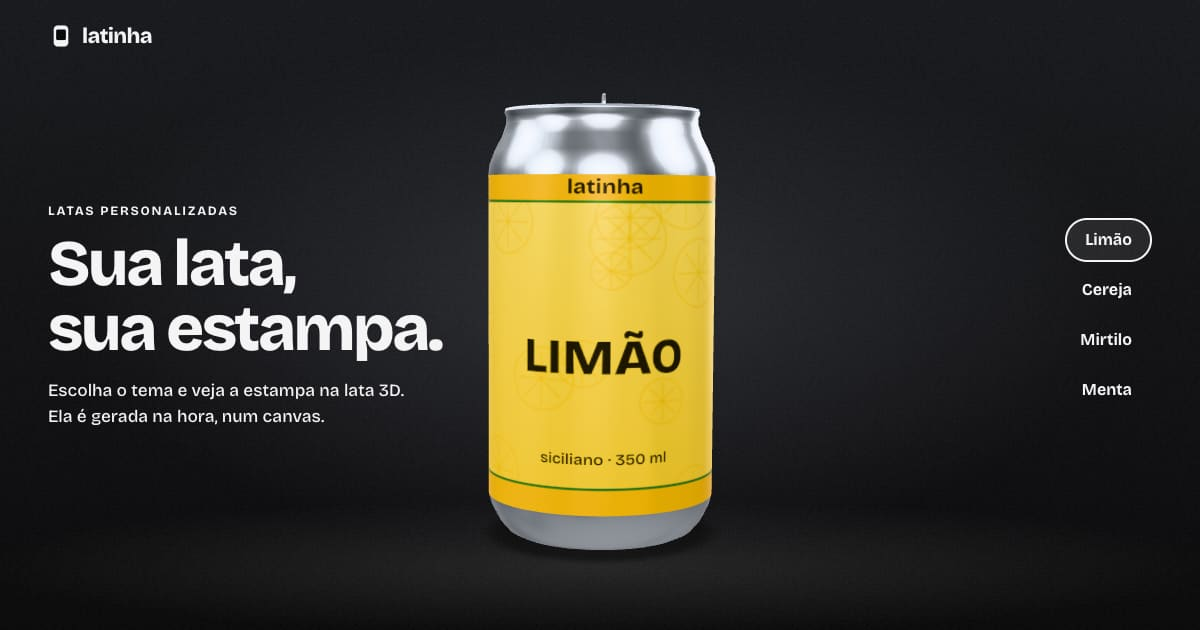
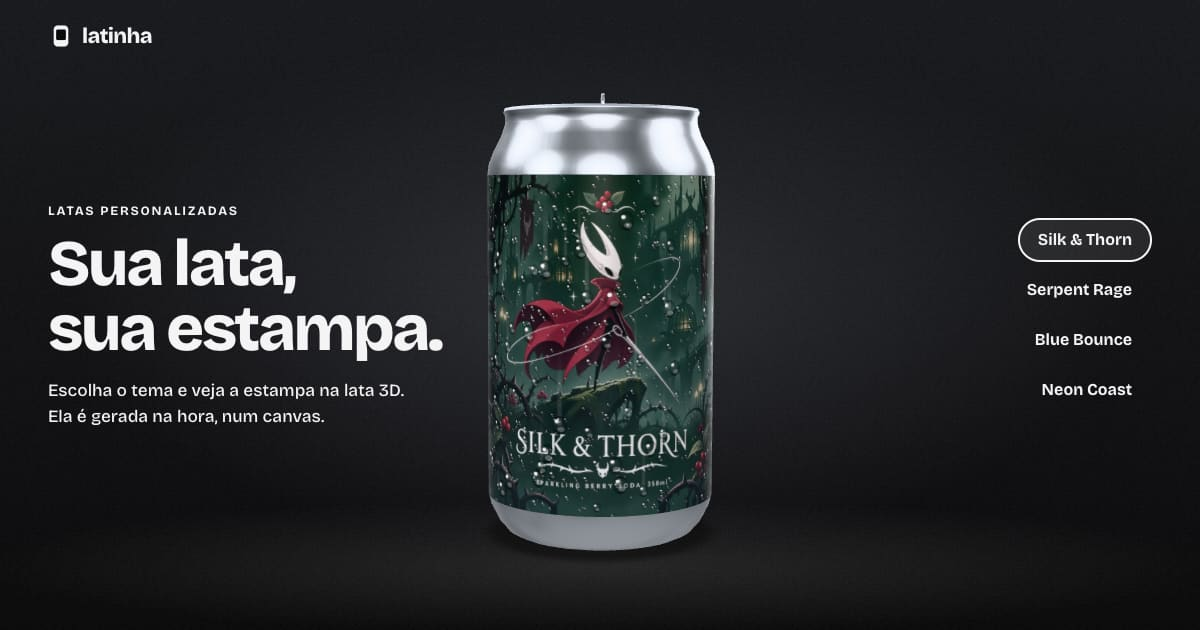
Temas novos com rotulos do Magnific (Silk & Thorn, Serpent Rage, Blue Bounce, Neon Coast) e gotas de condensacao

diff --git a/src/modules/textures.js b/src/modules/textures.js
@@ -106,91 +106,72 @@ function barcode(ctx, x, y, w, h, ink, r) {
   ctx.fillStyle = ink;
 }
 
-/**
- * Desenha a estampa de um tema. `theme.custom` (estúdio) traz { text, image, layout }.
- * @returns {HTMLCanvasElement}
- */
+const imgs = new Map();
+export function loadLabelImage(src) {
+  if (!imgs.has(src)) imgs.set(src, new Promise((res, rej) => { const i = new Image(); i.decoding = 'async'; i.onload = () => res(i); i.onerror = rej; i.src = src; }));
+  return imgs.get(src);
+}
+
+// Condensação: gotas de vários tamanhos com sombra, brilho de ponta e rastro nas maiores, mais uma névoa fria leve.
+// O desenho é determinístico (semente fixa), então o mesmo tema sempre tem as mesmas gotas.
+const dropLayers = new Map();
+function condensation(target, W, H) {
+  const key = `${W}x${H}`;
+  if (!dropLayers.has(key)) {
+    const layer = document.createElement('canvas'); layer.width = W; layer.height = H;
+    paintCondensation(layer.getContext('2d'), W, H);
+    dropLayers.set(key, layer); // as gotas são iguais em todos os temas: desenha uma vez por tamanho
+  }
+  target.drawImage(dropLayers.get(key), 0, 0);
+}
+
+function paintCondensation(ctx, W, H) {
+  const r = rng(2026);
+  ctx.save();
+  const haze = ctx.createLinearGradient(0, 0, 0, H);
+  haze.addColorStop(0, 'rgba(200,225,255,0.07)'); haze.addColorStop(1, 'rgba(200,225,255,0.18)');
+  ctx.fillStyle = haze; ctx.fillRect(0, 0, W, H);
+  const drop = (x, y, rad, streak) => {
+    const rx = rad, ry = rad * 1.28;
+    if (streak) {
+      const g = ctx.createLinearGradient(0, y - streak, 0, y);
+      g.addColorStop(0, 'rgba(255,255,255,0)'); g.addColorStop(1, 'rgba(255,255,255,0.16)');
+      ctx.fillStyle = g; ctx.fillRect(x - rx * 0.3, y - streak, rx * 0.6, streak);
+    }
+    const body = ctx.createRadialGradient(x - rx * 0.25, y - ry * 0.3, rx * 0.1, x, y, ry);
+    body.addColorStop(0, 'rgba(255,255,255,0.10)'); body.addColorStop(0.65, 'rgba(0,0,0,0.10)'); body.addColorStop(1, 'rgba(0,0,0,0.55)');
+    ctx.fillStyle = body;
+    ctx.beginPath(); ctx.ellipse(x, y, rx, ry, 0, 0, Math.PI * 2); ctx.fill();
+    ctx.fillStyle = 'rgba(255,255,255,0.28)';
+    ctx.beginPath(); ctx.ellipse(x + rx * 0.2, y + ry * 0.45, rx * 0.5, ry * 0.28, 0, 0, Math.PI * 2); ctx.fill();
+    ctx.fillStyle = 'rgba(255,255,255,0.95)';
+    ctx.beginPath(); ctx.ellipse(x - rx * 0.38, y - ry * 0.42, rx * 0.26, ry * 0.2, -0.5, 0, Math.PI * 2); ctx.fill();
+  };
+  const k = (W / 2048) * 1.8;
+  for (let i = 0; i < 1700; i++) drop(r() * W, r() * H, (1.6 + r() * r() * 5) * k, 0);
+  for (let i = 0; i < 130; i++) drop(r() * W, r() * H, (6 + r() * 7) * k, r() > 0.55 ? (30 + r() * 110) * k : 0);
+  ctx.restore();
+}
+
+/** Desenha a estampa de um tema: o rótulo original (imagem 2:1) com a condensação por cima. @returns {HTMLCanvasElement} */
 export function drawLabel(theme, [W, H], canvas = document.createElement('canvas')) {
   canvas.width = W; canvas.height = H;
   const ctx = canvas.getContext('2d');
-  const c = theme.label;
-  const custom = theme.custom || null;
-  const r = rng([...theme.id].reduce((s, ch) => s * 31 + ch.charCodeAt(0), 7));
-
-  // fundo
-  const g = ctx.createLinearGradient(0, 0, 0, H);
-  g.addColorStop(0, c.base); g.addColorStop(1, c.deep);
-  ctx.fillStyle = c.base; ctx.fillRect(0, 0, W, H);
-  ctx.globalAlpha = 0.35; ctx.fillStyle = g; ctx.fillRect(0, 0, W, H); ctx.globalAlpha = 1;
-
-  const full = custom?.image && custom.layout === 'full';
-  if (full) drawCover(ctx, custom.image, W * 0.2, 0, W * 0.6, H);
-  else { ctx.save(); PATTERNS[c.pattern]?.(ctx, W, H, c, r); ctx.restore(); }
-
-  // faixas de cima e de baixo
-  const band = H * 0.075;
-  ctx.globalAlpha = 1; ctx.fillStyle = c.deep;
-  ctx.fillRect(0, 0, W, band); ctx.fillRect(0, H - band, W, band);
-  ctx.fillStyle = c.accent; ctx.fillRect(0, band, W, H * 0.008); ctx.fillRect(0, H - band - H * 0.008, W, H * 0.008);
-
-  const cx = W / 2;
-  ctx.textAlign = 'center'; ctx.textBaseline = 'middle';
-
-  // marca (no alto, de frente)
-  ctx.fillStyle = full ? '#fff' : c.ink;
-  ctx.font = `700 ${Math.round(H * 0.06)}px ${FONT}`;
-  ctx.fillText('latinha', cx, band * 0.5 + 2);
-
-  // arte enviada no layout clássico: um selo redondo acima do nome
-  let nameY = H * 0.54;
-  if (custom?.image && !full) {
-    const s = H * 0.34, y = H * 0.14;
-    ctx.save();
-    ctx.beginPath(); ctx.arc(cx, y + s / 2, s / 2, 0, Math.PI * 2); ctx.closePath();
-    ctx.fillStyle = '#fff'; ctx.fill(); ctx.clip();
-    drawCover(ctx, custom.image, cx - s / 2, y, s, s);
-    ctx.restore();
-    ctx.lineWidth = H * 0.012; ctx.strokeStyle = c.ink;
-    ctx.beginPath(); ctx.arc(cx, y + s / 2, s / 2, 0, Math.PI * 2); ctx.stroke();
-    nameY = H * 0.68;
+  ctx.fillStyle = '#111'; ctx.fillRect(0, 0, W, H);
+  if (theme.img) {
+    // A arte é QUADRADA e fica de frente, ocupando quase a altura toda do rótulo (de frente a lata mostra menos que meia volta, então ela é
+    // um pouco mais estreita que alta). Laterais, costas, topo e base continuam a partir das bordas da própria arte (colunas/linhas de pixels
+    // esticadas), sem desfoque e sem emenda.
+    const im = theme.img, n = im.naturalWidth || im.width;
+    const sh = H * 0.96, sw = H * 0.78; // altura e largura da arte na lata
+    const x = (W - sw) / 2, y = (H - sh) / 2;
+    ctx.drawImage(im, 0, 0, 1, n, 0, 0, x + 1, H); // borda esquerda -> até o canto esquerdo
+    ctx.drawImage(im, n - 1, 0, 1, n, x + sw - 1, 0, W - (x + sw) + 1, H); // borda direita -> até o canto direito
+    ctx.drawImage(im, 0, 0, n, 1, x, 0, sw, y + 1); // linha de cima
+    ctx.drawImage(im, 0, n - 1, n, 1, x, y + sh - 1, sw, H - (y + sh) + 1); // linha de baixo
+    ctx.drawImage(im, x, y, sw, sh);
   }
-
-  // nome (o protagonista)
-  const name = custom ? (custom.text || '').trim() : theme.short;
-  if (name) {
-    const lines = splitName(name);
-    const maxW = W * 0.23;
-    const maxSize = H * (custom?.image && !full ? 0.17 : lines.length > 1 ? 0.2 : 0.26);
-    const sizes = lines.map((l) => fitText(ctx, l.toUpperCase(), maxW, maxSize));
-    const size = Math.min(...sizes);
-    ctx.font = `800 ${size}px ${FONT}`;
-    const lh = size * 0.92;
-    const top = nameY - ((lines.length - 1) * lh) / 2;
-    if (full) {
-      ctx.fillStyle = c.base;
-      ctx.globalAlpha = 0.92;
-      roundRect(ctx, cx - W * 0.17, top - lh * 0.62, W * 0.34, lh * lines.length + lh * 0.24, H * 0.03); ctx.fill();
-      ctx.globalAlpha = 1;
-    }
-    ctx.fillStyle = c.ink;
-    lines.forEach((l, i) => ctx.fillText(l.toUpperCase(), cx, top + i * lh));
-  }
-
-  // linha de apoio
-  ctx.font = `500 ${Math.round(H * 0.045)}px ${FONT}`;
-  ctx.fillStyle = full ? '#fff' : c.ink;
-  ctx.fillText(custom ? 'edição única · 350 ml' : `${theme.name.split(' ').slice(1).join(' ').toLowerCase() || 'clássico'} · 350 ml`, cx, H - band - H * 0.09);
-
-  // costas: código de barras e informação (desenhado dos dois lados da emenda)
-  for (const bx of [0, W]) {
-    ctx.save();
-    ctx.translate(bx, 0);
-    ctx.fillStyle = c.ink; ctx.font = `600 ${Math.round(H * 0.032)}px ${FONT}`;
-    ctx.fillText('marca fictícia · estudo 3D', 0, H * 0.3);
-    ctx.fillText('latinhas-3d.vercel.app', 0, H * 0.35);
-    barcode(ctx, -W * 0.05, H * 0.55, W * 0.1, H * 0.13, c.ink, rng(42));
-    ctx.restore();
-  }
+  condensation(ctx, W, H);
   return canvas;
 }
 

diff --git a/src/config/themes.js b/src/config/themes.js
@@ -1,31 +1,8 @@
-// Temas prontos: a estampa gerada no canvas (textures.js). O fundo é sempre o mesmo preto.
+// Temas prontos: rótulos ORIGINAIS planificados (2:1), gerados no Magnific (assets-src/rotulos), com gotas de condensação desenhadas por cima
+// em textures.js. O fundo da página é sempre o mesmo preto. Nenhuma marca real.
 export const THEMES = [
-  {
-    id: 'limao',
-    name: 'Limão Siciliano',
-    short: 'Limão',
-    tagline: 'Cítrico, gelado e sem açúcar.',
-    label: { base: '#ffe066', deep: '#f2b705', ink: '#1d1600', accent: '#2f7d32', pattern: 'slices' },
-  },
-  {
-    id: 'cereja',
-    name: 'Cereja Noturna',
-    short: 'Cereja',
-    tagline: 'Doce na medida, cor de cinema.',
-    label: { base: '#d4143a', deep: '#7c0a1d', ink: '#fff5f2', accent: '#ffd0d8', pattern: 'dots' },
-  },
-  {
-    id: 'mirtilo',
-    name: 'Mirtilo Elétrico',
-    short: 'Mirtilo',
-    tagline: 'Frutas azuis e um choque de energia.',
-    label: { base: '#3f55d9', deep: '#1c2575', ink: '#f3f5ff', accent: '#9ef0ff', pattern: 'waves' },
-  },
-  {
-    id: 'menta',
-    name: 'Menta Fresca',
-    short: 'Menta',
-    tagline: 'Folha recém-colhida, gás fininho.',
-    label: { base: '#9cf0bf', deep: '#1f8a4c', ink: '#06301a', accent: '#ffffff', pattern: 'stripes' },
-  },
+  { id: 'silk', name: 'Silk & Thorn', short: 'Silk & Thorn', src: '/img/rotulo-silk.webp' },
+  { id: 'serpent', name: 'Serpent Rage', short: 'Serpent Rage', src: '/img/rotulo-serpent.webp' },
+  { id: 'bounce', name: 'Blue Bounce', short: 'Blue Bounce', src: '/img/rotulo-bounce.webp' },
+  { id: 'neon', name: 'Neon Coast', short: 'Neon Coast', src: '/img/rotulo-neon.webp' },
 ];

diff --git a/src/modules/can.js b/src/modules/can.js
@@ -1,7 +1,7 @@
 // A lata herói: inclina em direção ao cursor, gira na troca de tema e recebe a estampa gerada no canvas.
 import { SETTINGS } from '../config/settings.js';
 import { pointer, idleSway } from './pointer.js';
-import { drawLabel, canvasToBlob } from './textures.js';
+import { drawLabel, canvasToBlob, loadLabelImage } from './textures.js';
 
 export function createCan(el, { src, labelSize, reducedMotion }) {
   const state = { yaw: 0, pitch: 0, roll: 0, spin: 0, drag: 0 }; // drag = giro livre do visitante (graus, sem limite)
@@ -26,6 +26,7 @@ export function createCan(el, { src, labelSize, reducedMotion }) {
     await loaded;
     const cacheable = theme.id !== 'custom';
     if (cacheable && textures.has(theme.id)) return textures.get(theme.id);
+    if (theme.src && !theme.img) theme.img = await loadLabelImage(theme.src);
     canvas = drawLabel(theme, labelSize, cacheable ? undefined : canvas || undefined);
     const blob = await canvasToBlob(canvas, 'image/png');
     const url = URL.createObjectURL(blob);

diff --git a/CLAUDE.md b/CLAUDE.md
@@ -46,3 +46,9 @@ Estudo de portfólio: o README é a vitrine (decisões + números antes/depois).
 - **Só o herói**: sem seções, menu, rodapé nem cards. A página não rola. **Giro livre de 360°** (`can.enableDrag(hero)`, inércia; `state.drag` é aditivo ao tilt e ao giro do GSAP).
 - **Canvas da lata = herói inteiro** (nada é cortado). O `<model-viewer>` precisa de `max-camera-orbit="auto auto 2m"` para a distância da câmera valer (0,4 m desktop, 0,42 m celular).
 - **Fundo em CSS** (`hero.css`: degradê + brilho de chão + `public/img/noise.png`). A imagem de parede que o Erick mandou ficou pixelada e foi descartada. Mesmo CSS do `copos-laser`.
+
+## Temas novos (25/11/2026, pedido do Erick)
+- 4 temas com **rótulos gerados no Magnific** (`assets-src/rotulos/*.png`, versionados; `public/img/rotulo-*.webp`, 1024 px): Silk & Thorn (verde-escuro, heroína-vespa de máscara branca e capa vermelha), Serpent Rage (preto/dourado, espadachim de haori listrado com cobra branca), Blue Bounce (creme e azul, mascote retrô), Neon Coast (synthwave). O Erick pediu **parecidos o máximo possível** com as referências (Hollow Knight Silksong x Guaraná, Demon Slayer x Monster, Berry Loops, Monster Vice City): personagens são fan art de IP alheio, mas **nomes e logos de marca real não são usados** (só nomes fictícios).
+- A arte é **quadrada**; de frente a lata mostra menos que meia volta. Em `textures.js` ela ocupa 96% da altura e 78% da altura em largura, e o resto da volta vem das **bordas da própria arte esticadas** (sem blur: o Erick não quer desfoque).
+- **Gotas de condensação** desenhadas por cima (1700 pequenas + 130 grandes com rastro + névoa fria), camada cacheada por tamanho (igual para todos os temas). Sem o cache e com blur, o TBT do celular passava de 500 ms.
+- Rotulo 2:1 (primeira tentativa) cortava as pontas do texto: não voltar a esse formato.

diff --git a/reports/lighthouse-v4.md b/reports/lighthouse-v4.md
@@ -1,0 +1,7 @@
+### v4 (http://localhost:4173, mediana de 3 execuções)
+
+| | Performance | Acessibilidade | Boas Práticas | SEO | FCP | LCP | TBT | CLS | Peso | Requisições |
+|---|---:|---:|---:|---:|---:|---:|---:|---:|---:|---:|
+| Celular | 96 | 100 | 100 | 100 | 0.8 s | 0.8 s | 191 ms | 0.000 | 1.45 MB | 21 |
+| Desktop | 100 | 100 | 100 | 100 | 0.2 s | 0.2 s | 0 ms | 0.000 | 1.45 MB | 21 |
+

diff --git a/reports/images.md b/reports/images.md
@@ -1,3 +1,3 @@
 | Imagem | PNG original (2x) | WebP 480 | WebP 960 |
 |---|---:|---:|---:|
-| og (compartilhamento) | 653.7 KB | 34.4 KB (JPG 1200) | |
+| og (compartilhamento) | 730.6 KB | 42.2 KB (JPG 1200) | |
